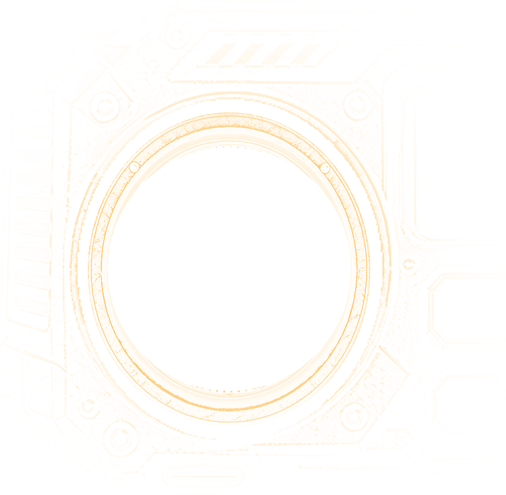
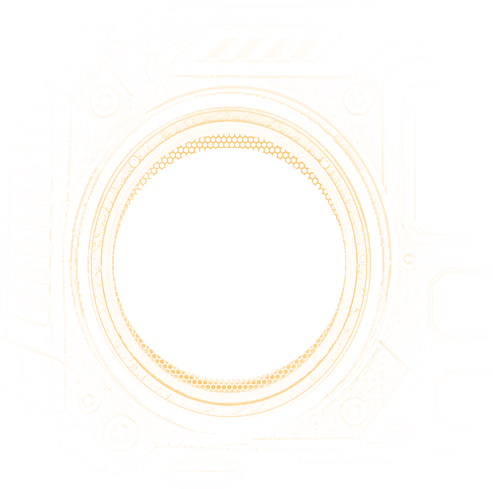
NERD FM: Lautsprecher aus Ebenenpaket – Membran schwingt hinter stehendem Gitter mit Pixelpilz, Bodenschatten nach vorn
- Membran, Gitter (Löcher durchsichtig) und Pilz-LEDs/-Schein aus nerd-radio-speaker-layers, links gespiegelt
- RGB-Licht fällt auf die Membran und ist nur durch die Gitterlöcher sichtbar (Lochmasken entfallen)
- Schattenlicht von hinten oben: Schatten fällt sichtbar vor und unter das Gerät

Changed region(s): [[0.1217, 0.1534, 0.8519, 0.8896]]

diff --git a/dau-to-pro/nerd-radio/layout.css b/dau-to-pro/nerd-radio/layout.css
@@ -1,5 +1,5 @@
 /* Generiert von tools/nerd-radio/build_boombox.py – nicht von Hand ändern. Positionen in Paket-Koordinaten. */
-.nr-device{aspect-ratio:1931/961;--nr-face:"0.10355 0.06074 0.92273 0.00636 0.89388 0.99308 0.07733 0.76165"}
+.nr-device{aspect-ratio:2074/961;--nr-face:"0.16528 0.06074 0.92805 0.00636 0.90119 0.99308 0.14086 0.76165"}
 .nr-face{width:2910px;height:1242px}
 .nr-display{left:28.763%;top:33.333%;width:45.361%;height:24.155%}
 .nr-volume{left:37.010%;top:79.469%;width:28.969%;height:9.420%}
@@ -7,22 +7,20 @@
 .nr-glow__gold-halo-r{left:76.770%;top:37.923%;width:18.797%;height:48.631%}
 .nr-glow__gold-l{left:7.423%;top:39.291%;width:17.732%;height:46.055%}
 .nr-glow__gold-r{left:77.320%;top:39.291%;width:17.732%;height:46.055%}
-.nr-glow__cyan-halo-l{left:12.302%;top:51.771%;width:9.141%;height:19.887%}
-.nr-glow__cyan-halo-r{left:81.443%;top:51.771%;width:9.141%;height:19.887%}
-.nr-glow__cyan-l{left:12.577%;top:52.415%;width:8.763%;height:18.760%}
-.nr-glow__cyan-r{left:81.718%;top:52.415%;width:8.763%;height:18.760%}
-.nr-cone--l{left:7.801%;top:42.432%;width:16.942%;height:39.694%;--mx:52.637%;--my:48.174%}
-.nr-glow__gold-edge-l{left:0.515%;top:19.002%;width:34.811%;height:79.710%}
-.nr-cone--l .nr-cone__mesh{-webkit-mask-image:url(mesh-l.webp);mask-image:url(mesh-l.webp)}
-.nr-cone--l .nr-glow__cyan-edge-l{left:1.217%;top:0.811%;width:97.972%;height:98.580%}
-.nr-cone--l .nr-glow__cyan-l{left:28.195%;top:25.152%;width:51.724%;height:47.262%}
-.nr-cone--l .nr-glow__cyan-halo-l{left:26.572%;top:23.529%;width:53.955%;height:50.101%}
-.nr-cone--r{left:77.698%;top:42.432%;width:16.942%;height:39.694%;--mx:48.174%;--my:48.174%}
-.nr-glow__gold-edge-r{left:67.182%;top:19.002%;width:32.131%;height:79.469%}
-.nr-cone--r .nr-cone__mesh{-webkit-mask-image:url(mesh-r.webp);mask-image:url(mesh-r.webp)}
-.nr-cone--r .nr-glow__cyan-edge-r{left:1.014%;top:0.811%;width:98.174%;height:98.580%}
-.nr-cone--r .nr-glow__cyan-r{left:23.732%;top:25.152%;width:51.724%;height:47.262%}
-.nr-cone--r .nr-glow__cyan-halo-r{left:22.110%;top:23.529%;width:53.955%;height:50.101%}
+.nr-glow__cyan-halo-l{left:10.241%;top:46.779%;width:12.096%;height:31.079%}
+.nr-glow__cyan-halo-r{left:80.137%;top:46.779%;width:12.096%;height:31.079%}
+.nr-glow__cyan-l{left:11.787%;top:50.966%;width:9.003%;height:22.625%}
+.nr-glow__cyan-r{left:81.684%;top:50.966%;width:9.003%;height:22.625%}
+.nr-cone--l{left:8.316%;top:41.546%;width:15.945%;height:41.546%;--mx:50.000%;--my:50.000%}
+.nr-glow__gold-edge-l{left:0.515%;top:19.887%;width:33.918%;height:78.744%}
+.nr-cone--l .nr-glow__cyan-edge-l{left:0.000%;top:0.000%;width:100.000%;height:100.000%}
+.nr-cone--l .nr-glow__cyan-l{left:21.767%;top:22.674%;width:56.466%;height:54.457%}
+.nr-cone--l .nr-glow__cyan-halo-l{left:12.069%;top:12.597%;width:75.862%;height:74.806%}
+.nr-cone--r{left:78.213%;top:41.546%;width:15.945%;height:41.546%;--mx:50.000%;--my:50.000%}
+.nr-glow__gold-edge-r{left:68.076%;top:19.887%;width:31.237%;height:78.100%}
+.nr-cone--r .nr-glow__cyan-edge-r{left:0.000%;top:0.000%;width:100.000%;height:100.000%}
+.nr-cone--r .nr-glow__cyan-r{left:21.767%;top:22.674%;width:56.466%;height:54.457%}
+.nr-cone--r .nr-glow__cyan-halo-r{left:12.069%;top:12.597%;width:75.862%;height:74.806%}
 .nr-key[data-radio-prev]{left:30.000%;top:63.043%;width:6.598%;height:12.077%;background-image:url(key-previous-normal.webp)}
 .nr-key[data-radio-prev]:hover{background-image:url(key-previous-hover.webp)}
 .nr-key[data-radio-prev]:active,.nr-key[data-radio-prev].is-down{background-image:url(key-previous-pressed.webp)}

diff --git a/dau-to-pro/nerd-radio.css b/dau-to-pro/nerd-radio.css
@@ -48,7 +48,8 @@
 .nr-device:not([data-state=playing]) :is(.nr-glow,.nr-cone [data-radio-light]){transition:opacity .8s ease-out}
 
 /* ---------- Membranen: pumpen mit dem Bass (Skalierung um die Pilzmitte), im Rand beschnitten ---------- */
-.nr-face>.nr-cone{position:absolute;pointer-events:none;clip-path:circle(50%)}
+.nr-face>.nr-cone{position:absolute;pointer-events:none;clip-path:ellipse(50% 50%)}
+.nr-cone__grille{left:0;top:0;width:100%;height:100%}   /* steht still, Löcher durchsichtig */
 .nr-cone__body{position:absolute;inset:0;transform-origin:var(--mx) var(--my);--nr-push:0}
 .nr-device:not([data-state=playing]) .nr-cone__body{transition:transform .5s ease-out}
 .nr-cone__img{left:0;top:0;width:100%;height:100%}
@@ -61,10 +62,10 @@
    Farbbereich Türkis – Blau – Lila – Pink (kein Gelb/Grün neben dem Gold der Ringe). */
 .nr-device{--nr-hue:190;--nr-led:0;--nr-mesh:0;
   --nr-c1:hsl(var(--nr-hue) 95% 55%);--nr-c2:hsl(calc(var(--nr-hue) + 30) 95% 58%);--nr-c3:hsl(calc(var(--nr-hue) - 30) 95% 50%)}
-/* Licht scheint durch die Löcher des Gitters (Maske aus layout.css), Mitte am hellsten, pumpt mit der Membran */
+/* RGB-Licht auf der Membran (Mitte am hellsten); durch das stehende Gitter darüber nur in den Löchern sichtbar */
 .nr-cone__mesh{position:absolute;inset:0;opacity:var(--nr-mesh);mix-blend-mode:screen;
   background:radial-gradient(circle at var(--mx) var(--my),var(--nr-c2) 0,var(--nr-c1) 50%,var(--nr-c3) 100%);
-  -webkit-mask-size:100% 100%;mask-size:100% 100%;-webkit-mask-repeat:no-repeat;mask-repeat:no-repeat}
+}
 /* LED-Ring um den Tieftöner: einzelne LEDs plus weicher Schein, der über Rand und Gehäuse strahlt */
 .nr-face>.nr-led{position:absolute;pointer-events:none;opacity:var(--nr-led);mix-blend-mode:screen}
 .nr-led::before,.nr-led::after{content:"";position:absolute;border-radius:50%;

diff --git a/dau-to-pro/nerd-radio.js b/dau-to-pro/nerd-radio.js
@@ -384,7 +384,7 @@
     }
     if (on && !calm) phase = (phase + dt * (0.12 + 0.9 * lo)) % (Math.PI * 2);
     const hue = 185 + 140 * (0.5 - 0.5 * Math.cos(phase));   // pendelt Türkis (185) ↔ Pink (325)
-    const led = !on ? 0 : calm ? 0.75 : 0.22 + 0.78 * lo, mesh = !on ? 0 : calm ? 0.25 : 0.06 + 0.5 * push;
+    const led = !on ? 0 : calm ? 0.75 : 0.22 + 0.78 * lo, mesh = !on ? 0 : calm ? 0.4 : 0.12 + 0.85 * push;
     const rgb = `${Math.round(hue)}|${led.toFixed(2)}|${mesh.toFixed(2)}`;
     if (rgb !== lastRgb) {
       lastRgb = rgb;

diff --git a/tools/nerd-radio/prepare_pack.py b/tools/nerd-radio/prepare_pack.py
@@ -2,7 +2,7 @@
 
 Aufruf (Python 3 mit Pillow, NumPy, SciPy):
   python tools/nerd-radio/prepare_pack.py --pack <Ordner mit nerd-radio-pack> [--web dau-to-pro/nerd-radio] [--work tools/nerd-radio/.work]
-         [--surfaces <Ordner mit nerd-radio-surfaces>]
+         [--surfaces <Ordner mit nerd-radio-surfaces>] --speakers <Ordner mit nerd-radio-speaker-layers>
 
 Schritte:
 - Front-Textur für Blender (work/front.png, 2910 x 1242, Paket-Koordinaten): modulare Hülle mit
@@ -11,8 +11,10 @@ Schritte:
 - Lichtebenen für die Website, je Lautsprecher zugeschnitten, in voller Paketauflösung, Positionen in pack.json:
   light-gold-*/light-cyan-* = scharfer Kern (Ring bzw. Pixelpilz, Pilz verlustfrei), light-gold-halo-*/light-cyan-halo-*
   = weicher Schein. Kern und Schein sind getrennt, damit der Kern beim Pulsieren hell und scharf bleibt. Nur diese beiden leuchten, ihre Helligkeit folgt der Musik.
-- Membranen (cone-l/r.webp): Gitter + Pilz innerhalb des Randes, als eigene Ebene, die mit dem Bass pumpt.
-- Gitter-Lochmasken (mesh-l/r.webp) für das RGB-Licht, das durch die Membran scheint.
+- Lautsprecher aus dem Ebenenpaket „nerd-radio-speaker-layers“ (rechts geliefert, links gespiegelt):
+  Membran (cone-l/r.webp, schwingt mit dem Bass), stehendes Gitter mit eingesetztem Pilz (grille-l/r.webp,
+  Löcher durchsichtig), Pilz-LEDs und Pilzschein als Lichtebenen. Rand und Goldring bleiben aus dem Grafikpaket.
+- RGB-Licht fällt in der Website auf die Membran und ist so nur durch die Gitterlöcher sichtbar.
 - Kantenlicht (light-gold-edge-*, light-cyan-edge-*): Lichtfall der Ringe auf Gehäusekanten bzw. des Pilzes aufs
   Gitter, aus Helligkeit und Hochpass der Front berechnet, mit Abfall zur Lichtquelle.
 - Tasten (normal / hover / gedrückt) und Lautstärkeregler als WebP.
@@ -30,6 +32,7 @@ ap.add_argument('--pack', required=True)
 ap.add_argument('--web', default='dau-to-pro/nerd-radio')
 ap.add_argument('--work', default='tools/nerd-radio/.work')
 ap.add_argument('--surfaces')
+ap.add_argument('--speakers', required=True, help='Ordner mit nerd-radio-speaker-layers (Membran, Gitter, Pilz-LEDs)')
 args = ap.parse_args()
 PACK = args.pack if os.path.isdir(os.path.join(args.pack, 'assets')) else os.path.join(args.pack, 'nerd-radio-pack')
 A = lambda p: os.path.join(PACK, 'assets', p)
@@ -133,9 +136,18 @@ under(front, glass, x0 - 8, y0 - 8)
 # Lautsprecher: Gitter + Rand mit ausgeschaltetem Ring, dazu ausgeschaltete Pixelpilze
 # Pilzmitte und -größe aus der integrierten Hülle des Pakets gemessen
 # Pilz links gemessen; rechts gespiegelt an der Lautsprechermitte, damit beide Seiten gleich sitzen
-MUSH = {'left': (486.5, 764.5, 0.785)}
-_lc, _rc = (SPK['left'][0] + SPK['left'][2]) / 2, (SPK['right'][0] + SPK['right'][2]) / 2
-MUSH['right'] = (_rc - (MUSH['left'][0] - _lc), MUSH['left'][1] + (SPK['right'][1] - SPK['left'][1]), MUSH['left'][2])
+SL = args.speakers if os.path.isdir(os.path.join(args.speakers, 'optional-alpha')) else os.path.join(args.speakers, 'nerd-radio-speaker-layers')
+def sl_rgba(name):
+    return np.asarray(Image.open(os.path.join(SL, name)).convert('RGBA')).astype(np.float32) / 255
+def sl_light(name):
+    """Lichtebene auf Schwarz -> RGBA (Deckkraft = hellster Kanal, Farbe entmultipliziert)."""
+    rgb = np.asarray(Image.open(os.path.join(SL, name)).convert('RGB')).astype(np.float32) / 255
+    a = rgb.max(-1); out = np.zeros(rgb.shape[:2] + (4,), np.float32)
+    out[..., :3] = rgb / np.maximum(a, 1e-4)[..., None]; out[..., 3] = a
+    return out
+SP = {'cone': sl_rgba('optional-alpha/01-woofer-cone-alpha.png'), 'grille': sl_rgba('optional-alpha/02-grille-led-off-alpha.png'),
+      'led': sl_light('03-mushroom-led-on-black.png'), 'glow': sl_light('04-mushroom-glow-black.png')}
+GRILLES = {}
 LAYERS = {n: np.zeros((CH, CW, 4), np.float32) for n in ('gold-halo', 'gold', 'cyan-halo', 'cyan')}
 layout_spk = {}
 CONE = {}
@@ -144,28 +156,27 @@ for side in ('left', 'right'):
     # Lautsprecherbild genau in das Rechteck aus dem Manifest (wie in der Paketvorschau): der Rand sitzt dann mit
     # Abstand im Rahmen. Den Rand auf die Öffnung zu ziehen machte beide Lautsprecher ~8 % zu groß.
     ox, oy, W, H = spk_rects[side]
-    spk = resize(lights_off(load(f'speakers/grille-{side}.png')), W, H)
+    flip = (lambda a: a[:, ::-1]) if side == 'left' else (lambda a: a)   # Ebenen sind für rechts gebaut
     rim = resize(lights_off(load(f'speakers/rim-{side}.png')), W, H)
-    over(spk, rim, 0, 0)
-    mcx, mcy, ms = MUSH[side]
-    m = load(f'speakers/mushroom-{side}.png'); mw, mh = round(m.shape[1] * ms), round(m.shape[0] * ms)
-    m_off = m.copy(); g = m_off[..., :3].mean(-1, keepdims=True)
-    m_off[..., :3] = g * np.array([0.16, 0.22, 0.24], np.float32); m_off[..., 3] *= 0.8   # LED-Pixel aus: dunkles Glas
-    mx, my = round(mcx - mw / 2), round(mcy - mh / 2)
-    over(spk, resize(m_off, mw, mh), mx - ox, my - oy)
+    cone_img = resize(flip(SP['cone']), W, H); grille = resize(flip(SP['grille']), W, H)
+    cone_img[..., :3] *= 0.72; grille[..., :3] *= 0.85        # an das dunkle Gehäuse angleichen
+    # Innenfläche des Randes = sichtbarer Bereich von Membran und Gitter
+    lab, _ = ndimage.label(rim[..., 3] < 0.5)
+    inner = (lab == lab[H // 2, W // 2]).astype(np.float32)
+    inner = np.clip(ndimage.gaussian_filter(ndimage.binary_erosion(inner > 0, iterations=2).astype(np.float32), 0.8), 0, 1)
+    spk = cone_img.copy(); over(spk, grille, 0, 0); over(spk, rim, 0, 0)
     under(front, spk, ox, oy)
     # Lichtebenen in gleicher Lage
     over(LAYERS['gold-halo'], resize(load(f'speakers/glow-amber-{side}.png'), W, H), ox, oy)
     over(LAYERS['gold'], resize(load(f'speakers/ring-amber-{side}.png'), W, H), ox, oy)
-    g2 = load(f'speakers/mushroom-glow-{side}.png')
-    over(LAYERS['cyan-halo'], resize(g2, round(g2.shape[1] * ms), round(g2.shape[0] * ms)), mx + round((m.shape[1] - g2.shape[1]) * ms / 2), my + round((m.shape[0] - g2.shape[0]) * ms / 2))
-    over(LAYERS['cyan'], resize(m, mw, mh), mx, my)
+    over(LAYERS['cyan-halo'], resize(flip(SP['glow']), W, H), ox, oy)
+    over(LAYERS['cyan'], resize(flip(SP['led']), W, H), ox, oy)
     layout_spk[side] = [ox, oy, W, H]
-    # Membran: Innenfläche des Randes (Mitte und Radius aus der Aussparung im Randbild)
-    lab, _ = ndimage.label(rim[..., 3] < 0.5)
-    inner = lab == lab[H // 2, W // 2]
-    iy, ix = np.nonzero(inner)
-    CONE[side] = (float(ix.mean() + ox), float(iy.mean() + oy), float(np.sqrt(inner.sum() / np.pi)) - 3, (mcx, mcy))
+    iy, ix = np.nonzero(inner > 0.5)
+    bx0, by0, bx1, by1 = int(ix.min()), int(iy.min()), int(ix.max() + 1), int(iy.max() + 1)
+    cone_img[..., 3] *= inner; grille[..., 3] *= inner
+    GRILLES[side] = (cone_img[by0:by1, bx0:bx1], grille[by0:by1, bx0:bx1])
+    CONE[side] = (bx0 + ox, by0 + oy, bx1 - bx0, by1 - by0)
 
 # Front für Blender (verlustfrei, volle Auflösung)
 Image.fromarray((np.clip(front, 0, 1) * 255 + 0.5).astype(np.uint8), 'RGBA').save(os.path.join(args.work, 'front.png'))
@@ -177,23 +188,21 @@ lum = (front[..., :3] @ np.array([0.3, 0.55, 0.15], np.float32)) * front[..., 3]
 hp = np.clip(lum - ndimage.gaussian_filter(lum, 5), 0, None)          # Kanten und Grate, die Licht fangen
 catch = np.clip(lum * 0.7 + hp * 12, 0, 1)
 CONES = {}
-for side, (cx, cy, r, (mcx, mcy)) in CONE.items():
+for side, (x0, y0, w, h) in CONE.items():
     s = side[0]
+    cx, cy = x0 + w / 2, y0 + h / 2; r = min(w, h) / 2
+    mcx, mcy = cx, cy                                                    # Pilz sitzt mittig im Gitter
     d = np.hypot(xx - cx, yy - cy)
-    disc = np.clip(r - d, 0, 1.5) / 1.5                                  # weiche Kante
-    x0, y0, x1, y1 = int(cx - r - 2), int(cy - r - 2), int(cx + r + 3), int(cy + r + 3)
-    cone = front[y0:y1, x0:x1].copy(); cone[..., 3] *= disc[y0:y1, x0:x1]
-    save(resize(cone, (x1 - x0) // 2, (y1 - y0) // 2), os.path.join(args.web, f'cone-{s}.webp'), quality=90)
-    CONES[s] = {'rect': [x0, y0, x1 - x0, y1 - y0], 'center': [mcx, mcy]}
-    # Lochmaske des Gitters: dunkle Löcher gegenüber ihrer Umgebung -> dort scheint das RGB-Licht durch
-    cl = (cone[..., :3] @ np.array([0.3, 0.55, 0.15], np.float32))
-    holes = np.clip((ndimage.gaussian_filter(cl, 4) - cl) / (ndimage.gaussian_filter(cl, 4) + 0.02) * 3, 0, 1) * cone[..., 3]
-    mask = np.ones(cone.shape, np.float32); mask[..., 3] = holes
-    save(resize(mask, (x1 - x0) // 2, (y1 - y0) // 2), os.path.join(args.web, f'mesh-{s}.webp'), quality=85)
+    disc = np.zeros((CH, CW), np.float32)
+    disc[y0:y0 + h, x0:x0 + w] = GRILLES[side][1][..., 3] > 0           # nur Gitterstege fangen Licht
+    cone_img, grille = GRILLES[side]
+    save(resize(cone_img, w // 2, h // 2), os.path.join(args.web, f'cone-{s}.webp'), quality=90)
+    save(grille, os.path.join(args.web, f'grille-{s}.webp'), quality=84)
+    CONES[s] = {'rect': [x0, y0, w, h], 'center': [mcx, mcy]}
     # Gold: Ringlicht fällt auf die Gehäusekanten rund um den Lautsprecher (nicht auf die Membran)
     fall = np.exp(-np.clip(d - r * 1.08, 0, None) / (r * 0.3)) * (d > r * 1.0)
     for name, a, col in (('gold-edge', np.clip(catch * fall * 0.8, 0, 1), (1.0, 0.72, 0.28)),
-                         ('cyan-edge', np.clip(catch * np.exp(-np.hypot(xx - mcx, yy - mcy) / (r * 0.38)) * disc * 1.3, 0, 1), (0.25, 0.9, 1.0))):
+                         ('cyan-edge', np.clip(catch * np.exp(-np.hypot(xx - mcx, yy - mcy) / (r * 0.45)) * disc * 1.3, 0, 1), (0.25, 0.9, 1.0))):
         ys_, xs_ = np.nonzero(a > 0.015)
         bx0, by0, bx1, by1 = int(xs_.min()), int(ys_.min()), int(xs_.max() + 1), int(ys_.max() + 1)
         lay = np.zeros((by1 - by0, bx1 - bx0, 4), np.float32); lay[..., :3] = col; lay[..., 3] = a[by0:by1, bx0:bx1]

diff --git a/tools/nerd-radio/build_boombox.py b/tools/nerd-radio/build_boombox.py
@@ -195,6 +195,10 @@ slab('handle', parts['handle'], HANDLE_FRONT, HANDLE_DEPTH)
 # ---------------------------------------------------------------- Bodenschatten (Shadow Catcher: nur der Schatten wird sichtbar)
 bpy.ops.mesh.primitive_plane_add(size=40, location=(0, DEPTH / 2, Z(CH) - 0.002))
 floor = bpy.context.active_object; floor.name = 'floor'; floor.is_shadow_catcher = True
+# Licht steil von hinten oben: wirft den Schatten nach vorn sichtbar unter das Gerät (Kamera sieht den Boden davor)
+sun_d = bpy.data.lights.new('shadow', 'SUN'); sun_d.energy = 5.0; sun_d.angle = math.radians(18)
+sun = bpy.data.objects.new('shadow', sun_d); scene.collection.objects.link(sun)
+sun.rotation_euler = (math.radians(-32), math.radians(6), 0)
 
 # ---------------------------------------------------------------- Licht, Kamera, Welt
 world = bpy.data.worlds.new('w'); scene.world = world; wn = nodes(world)
@@ -244,7 +248,7 @@ def proj(x, y, d):
     return co.x, 1 - co.y
 pts = [proj(x, y, d) for x in (0, CW) for y in (0, CH) for d in (0, DEPTH)]
 SH = 0.7 / U   # Bodenschatten reicht etwas über das Gerät hinaus
-pts += [proj(x, CH, d) for x in (-SH, CW + SH) for d in (-0.5, DEPTH + 1.0)]
+pts += [proj(x, CH, d) for x in (-SH, CW + SH) for d in (-1.6, DEPTH + 0.6)]
 pad = 12 / W
 CROP = [max(0, min(p[0] for p in pts) - pad), max(0, min(p[1] for p in pts) - pad), min(1, max(p[0] for p in pts) + pad), min(1, max(p[1] for p in pts) + pad)]
 r = scene.render
@@ -290,7 +294,6 @@ for s, cone in (PACK.get('cones') or {}).items():
     box = cone['rect']; mx, my = cone['center']
     lines.append(f'.nr-cone--{s}{{{place(box)};--mx:{pct(mx - box[0], box[2])};--my:{pct(my - box[1], box[3])}}}')
     lines.append(f'.nr-glow__gold-edge-{s}{{{place(cone["gold-edge"])}}}')
-    lines.append(f'.nr-cone--{s} .nr-cone__mesh{{-webkit-mask-image:url(mesh-{s}.webp);mask-image:url(mesh-{s}.webp)}}')
     lines.append(f'.nr-cone--{s} .nr-glow__cyan-edge-{s}{{{rel(cone["cyan-edge"], box)}}}')
     for n in ('cyan', 'cyan-halo'):
         lines.append(f'.nr-cone--{s} .nr-glow__{n}-{s}{{{rel(PACK["lights"][f"{n}-{s}"], box)}}}')

diff --git a/dau-to-pro/index.php b/dau-to-pro/index.php
@@ -111,13 +111,13 @@ $topicLabels=['subnet'=>'IP & Subnetting','netzwerk'=>'Netzwerke','sicherheit'=>
             $src = "nerd-radio/$file.webp"; $v = filemtime(__DIR__ . '/' . $src);
             return '<img class="' . $cls . '" src="' . $src . '?v=' . $v . '"' . ($light ? ' data-radio-light="' . $light . '"' : '') . ' alt="" decoding="async">';
           }; ?>
-          <!-- Membranen: pumpen mit dem Bass; Pilz, Pilzlicht und farbiges Licht durchs Lochgitter bewegen sich mit.
+          <!-- Lautsprecher: Membran schwingt mit dem Bass hinter dem stehenden Gitter mit eingesetztem Pixelpilz;
+               das RGB-Licht fällt auf die Membran und ist nur durch die Gitterlöcher zu sehen.
                Darüber je ein RGB-LED-Ring um den Tieftöner (Farbe wandert, Helligkeit folgt dem Bass). -->
 <?php foreach (['l', 'r'] as $nrS): ?>
           <div class="nr-cone nr-cone--<?=$nrS?>" aria-hidden="true"><div class="nr-cone__body" data-radio-cone>
-            <?=$nrImg("cone-$nrS", 'nr-cone__img')?><?=$nrImg("light-cyan-edge-$nrS", "nr-glow__cyan-edge-$nrS", 'cyan-edge')?><?=$nrImg("light-cyan-halo-$nrS", "nr-glow__cyan-halo-$nrS", 'cyan-halo')?>
-            <span class="nr-cone__mesh"></span><?=$nrImg("light-cyan-$nrS", "nr-glow__cyan-$nrS", 'cyan')?><span class="nr-cone__shade"></span>
-          </div></div>
+            <?=$nrImg("cone-$nrS", 'nr-cone__img')?><span class="nr-cone__mesh"></span><span class="nr-cone__shade"></span>
+          </div><?=$nrImg("grille-$nrS", 'nr-cone__grille')?><?=$nrImg("light-cyan-edge-$nrS", "nr-glow__cyan-edge-$nrS", 'cyan-edge')?><?=$nrImg("light-cyan-halo-$nrS", "nr-glow__cyan-halo-$nrS", 'cyan-halo')?><?=$nrImg("light-cyan-$nrS", "nr-glow__cyan-$nrS", 'cyan')?></div>
           <div class="nr-led nr-cone--<?=$nrS?>" aria-hidden="true"></div>
 <?php endforeach; ?>
           <!-- Echtes Licht: Ringe (Gold = Bass) samt Lichtfall auf die Gehäusekanten; Helligkeit folgt der Musik -->
